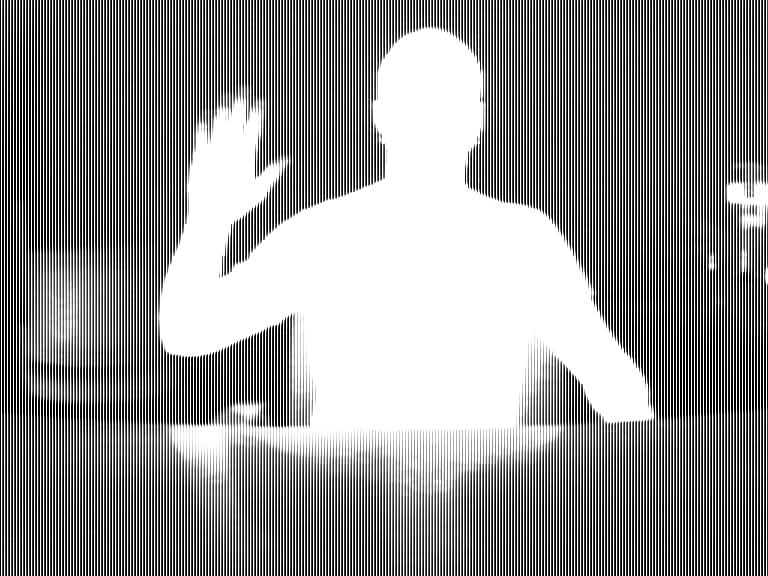
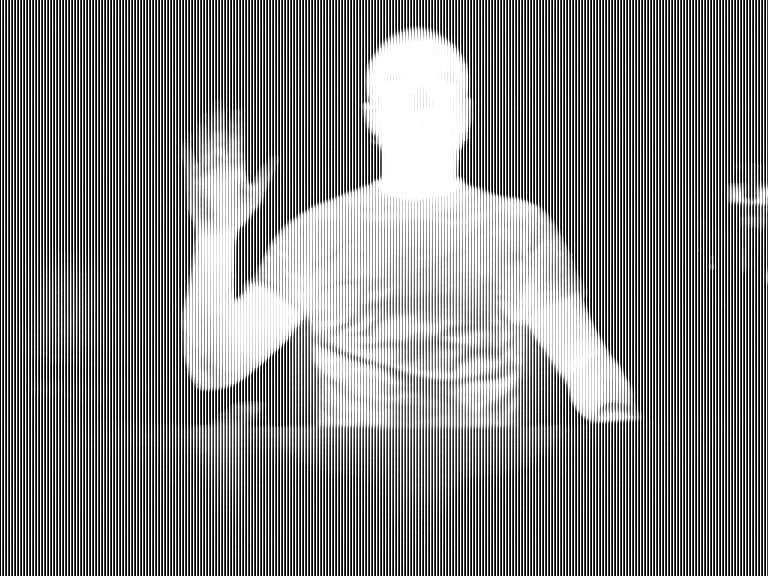
changes made to heat level function

Changed region(s): [[0.0, 0.0312, 1.0, 1.0], [0.9062, 0.875, 1.0, 1.0]]

diff --git a/image processing/human_seg.py b/image processing/human_seg.py
@@ -23,8 +23,8 @@ def infra_histogram(image):
 #FLC input function, returns value between 0 and 10 based on "heating level felt"
 #takes mean of rgb numpy array of an image as input
 def flc_input(mean):
-    old_max = 134.83
-    old_min = 132.61
+    old_max = 141
+    old_min = 129
     #if mean falls outside of the min and max bounds, mean is set to old_min if below
     #old_min, mean is set to old_max if higher than old_max
     detected_mean = mean
@@ -82,12 +82,16 @@ def segment_histo(image_path, colour1, colour2):
     #massive precision loss look into conservation
     io.imsave('./images/' + image_path[9:17] + '_seg.jpg', final_seg_rgb)
     
+    #derive heat level based on thermaml image, this will be the FLC input
+    controller_input = flc_input(image.mean())
+
     print(image.min(), image.max())  
     print(image.mean())
+    print(controller_input)
     return human_seperation, final_seg, rgb_histo
 
 #excuting main function with detected image
-image_seg = segment_histo('./images/hot/alexrainbow.jpg', 'white', 'green')
+image_seg = segment_histo('./images/cold/siorainbow.jpg', 'white', 'green')
 
 #show relevant figures onto the screen
 plt.show()
